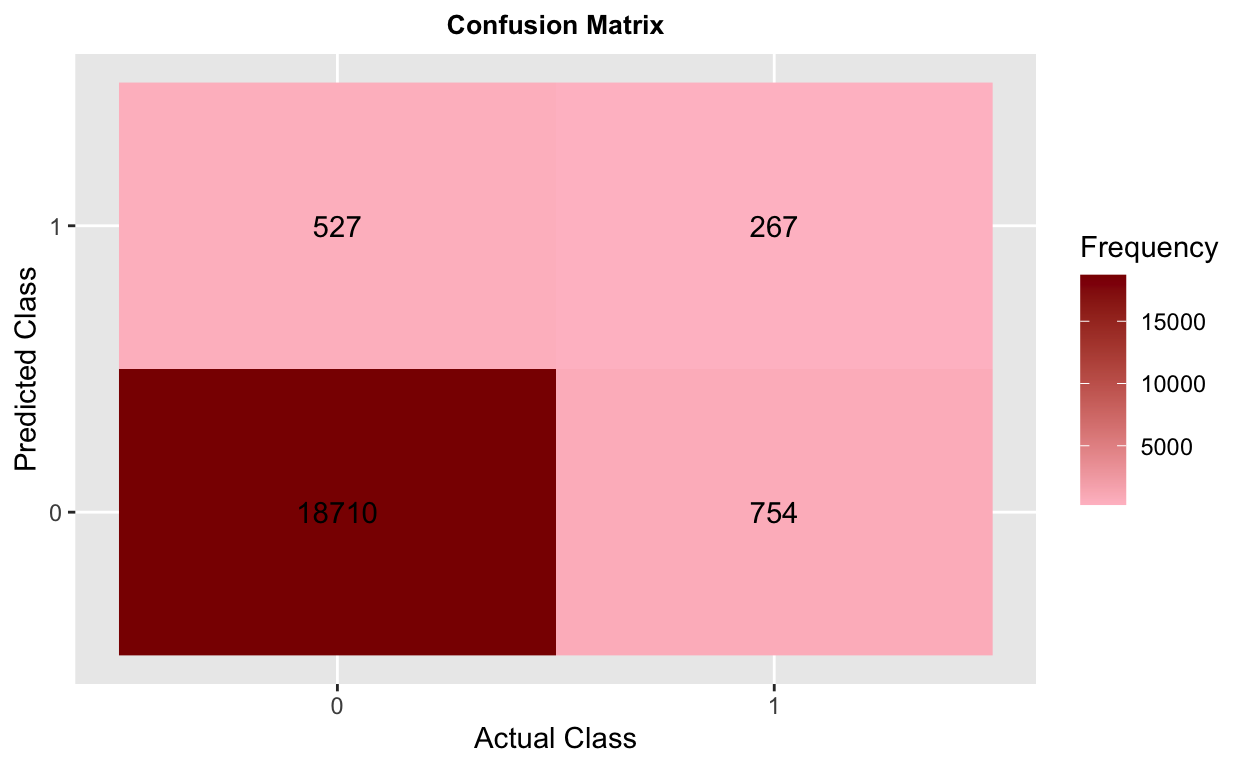
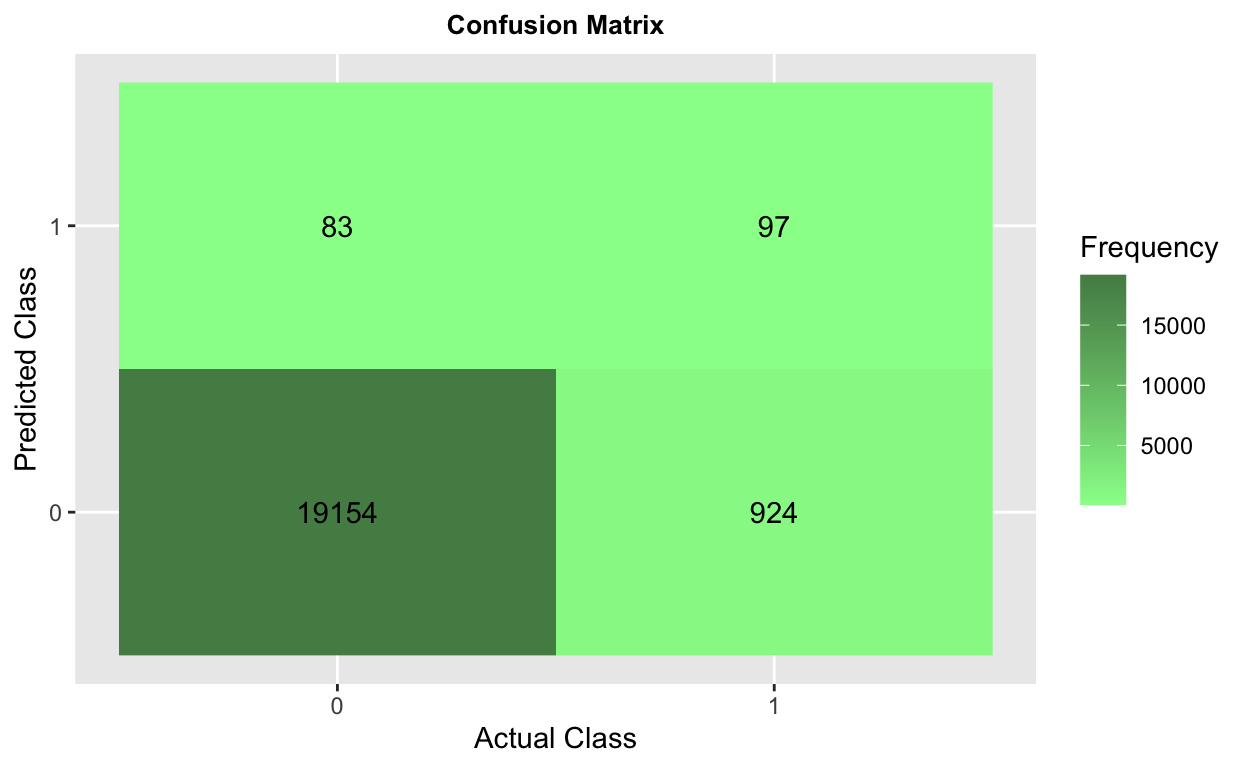
ta-dah

diff --git a/docs/project.html b/docs/project.html
@@ -2475,54 +2475,40 @@ Projects
 </div>
 <p>Here is a quick glance at what the model predicted vs. what actually occurred:</p>
 <div class="layout-chunk" data-layout="l-body">
-<div class="sourceCode">
-<pre class="sourceCode r"><code class="sourceCode r"><span class='fu'>ggplot</span><span class='op'>(</span><span class='fu'><a href='https://rdrr.io/r/base/as.data.frame.html'>as.data.frame</a></span><span class='op'>(</span><span class='va'>ConfusionMatrix</span><span class='op'>$</span><span class='va'>table</span><span class='op'>)</span><span class='op'>)</span><span class='op'>+</span>
-  <span class='fu'>geom_raster</span><span class='op'>(</span><span class='fu'>aes</span><span class='op'>(</span>x<span class='op'>=</span><span class='va'>Reference</span>, y<span class='op'>=</span><span class='va'>Prediction</span>, fill<span class='op'>=</span><span class='va'>Freq</span><span class='op'>)</span><span class='op'>)</span><span class='op'>+</span>
-  <span class='fu'>geom_text</span><span class='op'>(</span><span class='fu'>aes</span><span class='op'>(</span>x<span class='op'>=</span><span class='va'>Reference</span>, y<span class='op'>=</span><span class='va'>Prediction</span>, label<span class='op'>=</span><span class='va'>Freq</span><span class='op'>)</span><span class='op'>)</span><span class='op'>+</span>
-  <span class='fu'>scale_fill_gradient</span><span class='op'>(</span>low <span class='op'>=</span> <span class='st'>"pink"</span>, high <span class='op'>=</span> <span class='st'>"darkred"</span>, na.value <span class='op'>=</span> <span class='st'>"black"</span>, name<span class='op'>=</span><span class='st'>"Frequency"</span><span class='op'>)</span><span class='op'>+</span>
-  <span class='fu'>scale_x_discrete</span><span class='op'>(</span>name<span class='op'>=</span><span class='st'>"Actual Class"</span><span class='op'>)</span><span class='op'>+</span>
-  <span class='fu'>scale_y_discrete</span><span class='op'>(</span>name <span class='op'>=</span> <span class='st'>"Predicted Class"</span><span class='op'>)</span><span class='op'>+</span>
-  <span class='fu'>ggtitle</span><span class='op'>(</span><span class='st'>"Confusion Matrix"</span><span class='op'>)</span><span class='op'>+</span>
-  <span class='fu'>theme</span><span class='op'>(</span>plot.title <span class='op'>=</span> <span class='fu'>element_text</span><span class='op'>(</span>hjust <span class='op'>=</span> <span class='fl'>0.5</span>, size <span class='op'>=</span> <span class='fl'>10</span>, face <span class='op'>=</span> <span class='st'>'bold'</span><span class='op'>)</span><span class='op'>)</span>
-</code></pre>
-</div>
 <p><img src="project_files/figure-html5/Confusion%20Matrix%20Table-1.png" width="624" /></p>
 </div>
 <p>And here are some more specific statistics:</p>
 <div class="layout-chunk" data-layout="l-body">
-<div class="sourceCode">
-<pre class="sourceCode r"><code class="sourceCode r"><span class='va'>ConfusionMatrix</span>
-</code></pre>
-</div>
 <pre><code>Confusion Matrix and Statistics
 
           Reference
 Prediction     0     1
-         0 18710   754
-         1   527   267
+         0 19154   924
+         1    83    97
                                           
-               Accuracy : 0.9368          
-                 95% CI : (0.9333, 0.9401)
+               Accuracy : 0.9503          
+                 95% CI : (0.9472, 0.9532)
     No Information Rate : 0.9496          
-    P-Value [Acc &gt; NIR] : 1               
+    P-Value [Acc &gt; NIR] : 0.3337          
                                           
-                  Kappa : 0.2617          
+                  Kappa : 0.1487          
                                           
- Mcnemar&#39;s Test P-Value : 2.712e-10       
+ Mcnemar&#39;s Test P-Value : &lt;2e-16          
                                           
-            Sensitivity : 0.9726          
-            Specificity : 0.2615          
-         Pos Pred Value : 0.9613          
-         Neg Pred Value : 0.3363          
+            Sensitivity : 0.9957          
+            Specificity : 0.0950          
+         Pos Pred Value : 0.9540          
+         Neg Pred Value : 0.5389          
              Prevalence : 0.9496          
-         Detection Rate : 0.9236          
-   Detection Prevalence : 0.9608          
-      Balanced Accuracy : 0.6171          
+         Detection Rate : 0.9455          
+   Detection Prevalence : 0.9911          
+      Balanced Accuracy : 0.5453          
                                           
        &#39;Positive&#39; Class : 0               
                                           </code></pre>
 </div>
-<p>We can see that this model did not perform <em>spectacularly</em>. Although there are high accuracy and sensitivity statistics, the specificity statistic is abysmal. The table shows of the nearly 1,000 observations of a Going Concern opinion being issued, the model only identified a little more than a tenth of them. This is likely due to the data limitations and not having a direct correlation between the independent variables and the dependent variable. Other variables, even those that are not numerically measured, such as conversations with company personnel, have a large role in whether a Going Concern opinion is issued.</p>
+<p>We can see that this model did not perform <em>spectacularly</em>. Although there are high accuracy and sensitivity statistics, the specificity statistic is abysmal. This is likely due to the data limitations and not having a direct correlation between the independent variables and the dependent variable. Other variables, even those that are not numerically measured, such as conversations with company personnel, have a large role in whether a Going Concern opinion is issued.</p>
+<p>However, this model could be used to help identify those companies that are more likely to have a Going Concern issue. This model could help to reduce the likelihood of a type 2 error, which is when the auditor falsely accepts the financial statements, when they should have issued a Going Concern opinion.</p>
 <div class="sourceCode" id="cb5"><pre class="sourceCode r distill-force-highlighting-css"><code class="sourceCode r"></code></pre></div>
 <!--radix_placeholder_article_footer-->
 <!--/radix_placeholder_article_footer-->

diff --git a/docs/index.html b/docs/index.html
@@ -991,7 +991,7 @@
             <div style="border: thin solid lightgray; width: 100px;"></div>
           </div>
           <div class="px-5 py-1">
-            <p>I am a student in the Master of Professional Accountancy program at Mississippi State University, where I am also pursuing a graduate minor in accounting data analytics.</p>
+            <p>I am a student in the Master of Professional Accountancy program at Mississippi State University, where I am also pursuing a graduate minor in accounting data analytics. Upon my graduation in May, I will begin my career with BKD as a Forensics and Valuation Services Consultant.</p>
           </div>
           <div class="pl-5 pt-4" id="icon-list">
             <ul class="list-inline">
@@ -1042,7 +1042,7 @@
             <div style="border: thin solid lightgray; width: 100px;"></div>
           </div>
           <div class="px-5 py-1">
-            <p>I am a student in the Master of Professional Accountancy program at Mississippi State University, where I am also pursuing a graduate minor in accounting data analytics.</p>
+            <p>I am a student in the Master of Professional Accountancy program at Mississippi State University, where I am also pursuing a graduate minor in accounting data analytics. Upon my graduation in May, I will begin my career with BKD as a Forensics and Valuation Services Consultant.</p>
           </div>
         </div>
       </div>
